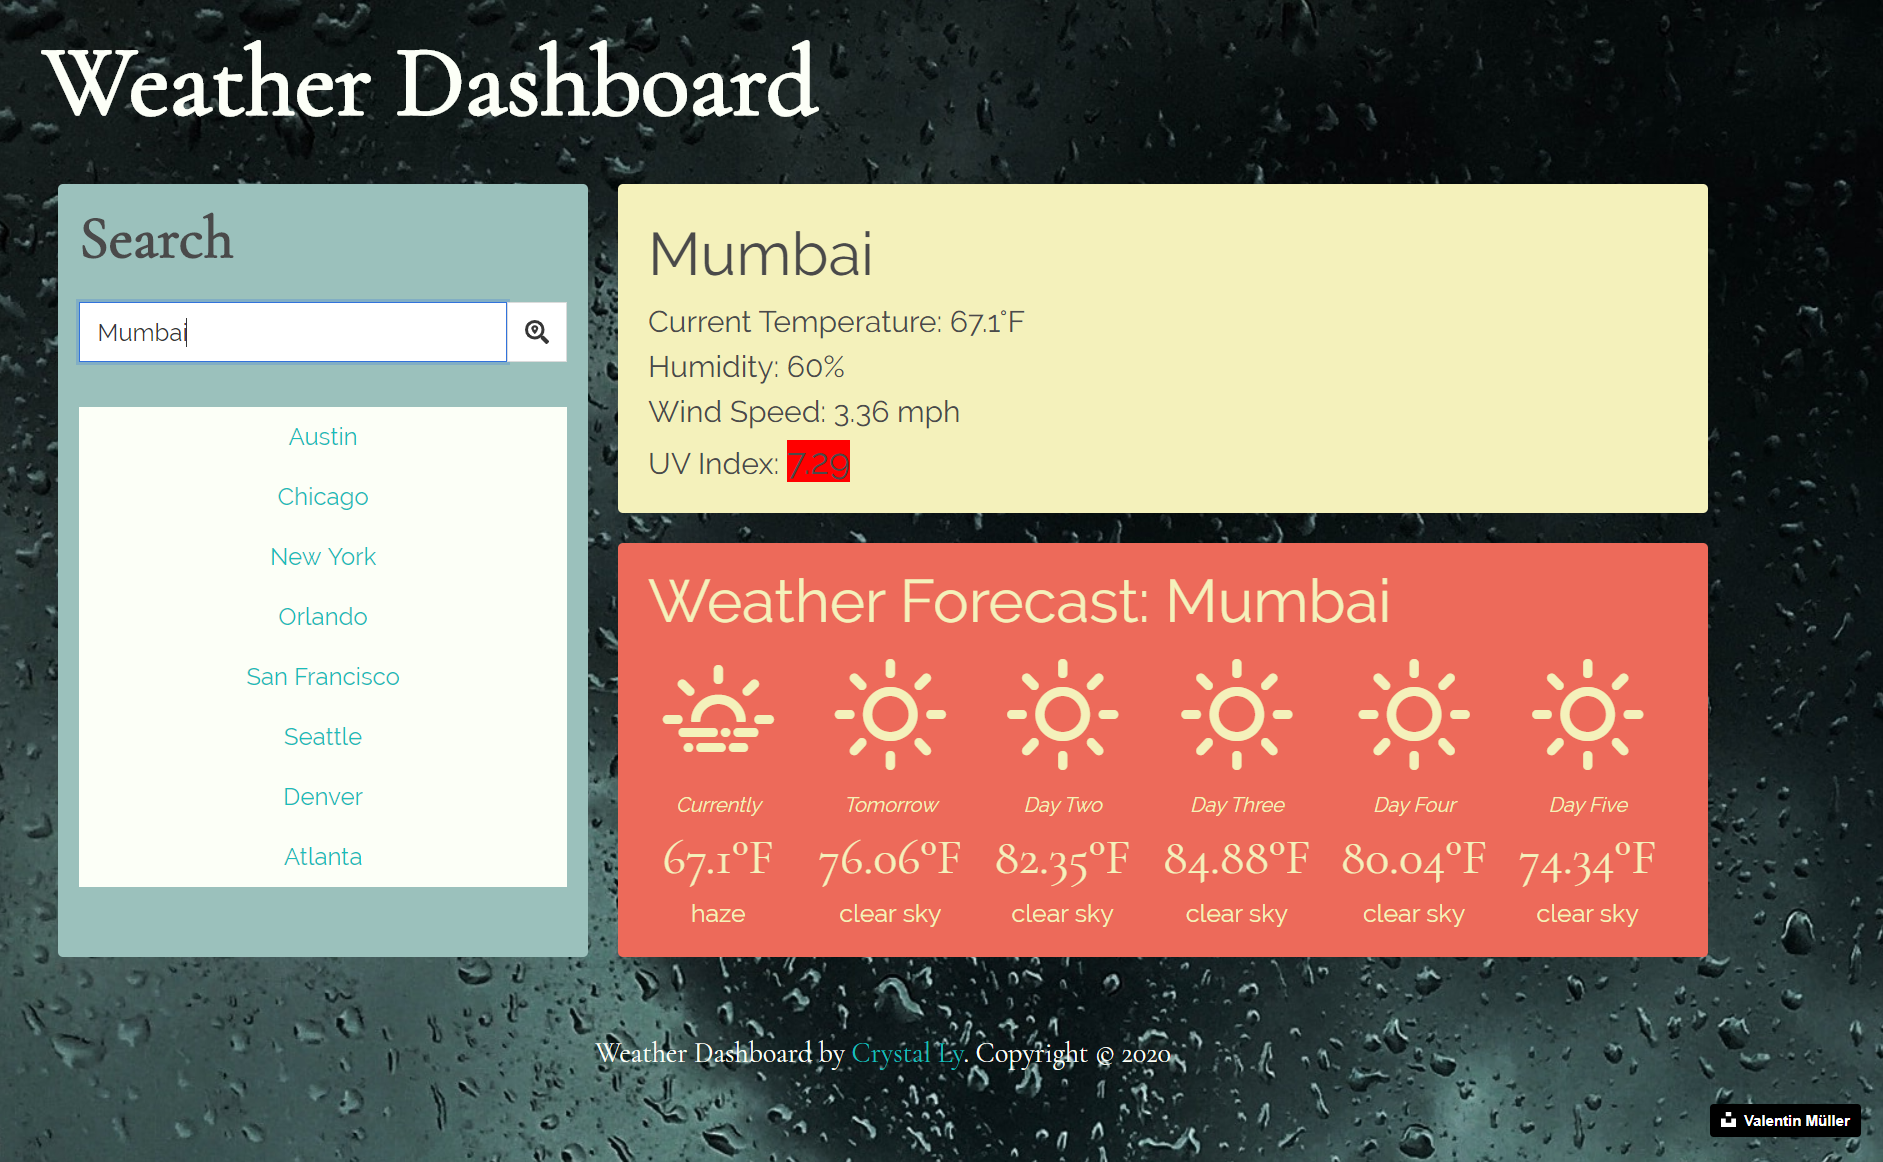
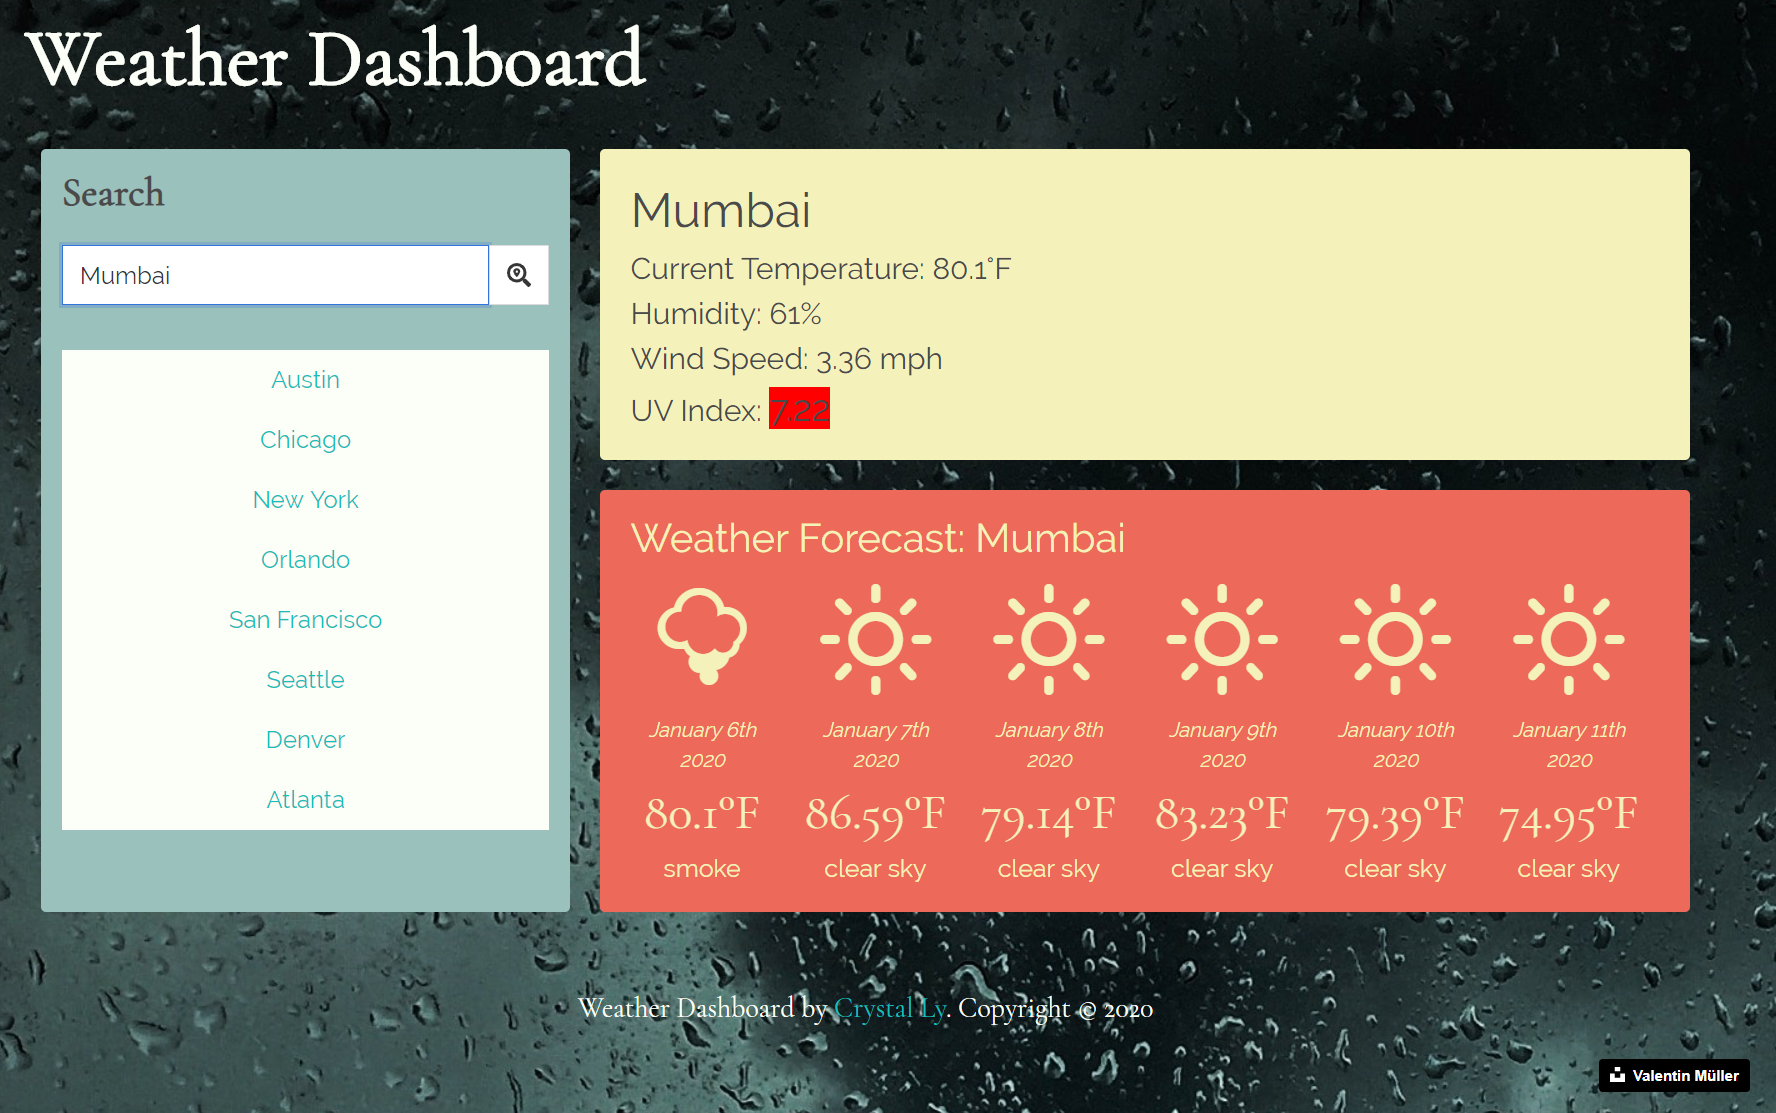
Added geolocation; just have to figure out how to fetch weather info based on location instead of city.

diff --git a/assets/scripts/script.js b/assets/scripts/script.js
@@ -14,9 +14,34 @@ $(document).ready(function () {
     var denverEl = $("#denver");
     var atlantaEl = $("#atlanta");
 
+    //prompt for user location
+    var options = {
+        enableHighAccuracy: true,
+        timeout: 5000,
+        maximumAge: 0
+    };
+
+    function success(pos) {
+        var crd = pos.coords;
+
+        console.log('Your current position is:');
+        console.log(`Latitude : ${crd.latitude}`);
+        console.log(`Longitude: ${crd.longitude}`);
+        console.log(`More or less ${crd.accuracy} meters.`);
+        queryLocationWeather();
+    }
+
+    function error(err) {
+        console.warn(`ERROR(${err.code}): ${err.message}`);
+    }
+
+    navigator.geolocation.getCurrentPosition(success, error, options);
+
+
     //this will populate the date in the weather div.
     var momentDates = moment().format("MMMM Do YYYY")
     $("#currentDate").append(momentDates);
+    $("#dateBox").append(momentDates);
 
     for (i = 1; i < 6; i++) {
         var addDay = moment().add(i, 'days');
@@ -85,24 +110,66 @@ $(document).ready(function () {
         });
     }
 
-    /* just an attempt to try to add photos if there is time
-    
-    function queryImage(cityName){
-    $.ajax({
-        url: "https://api.openweathermap.org/data/2.5/weather?q=" + cityName + "&units=imperial&appid=" + weatherKey,
-        method: "GET"
-    }).then(function (response) {
-        //Log the resulting object
-        console.log(response);
-    }
+    //runs function geolocatedWeather if location is provided.
+    if (success === true) {
+        function queryLocationWeather() {
+            $.ajax({
+                url: "https://api.openweathermap.org/data/2.5/weather?lat=" + crd.latitude + "&lon=" + crd.longitude + "&units=imperial&appid=" + weatherKey,
+                method: "GET"
+            }).then(function (response) {
+                //Log the resulting object
+                console.log(response);
 
-*/
+                var cityEl = response.name;
+                $("#cityStats").html(cityEl);
+                $("#cityForecast").html("Weather Forecast: " + cityEl);
 
-    //runs the function queryImage; not working
-    //function queryImage("Austin");
+                //This is for current weather!
+                var currentTempEl = response.main.temp;
+                $("#temperatureResponse").html("Current Temperature: " + currentTempEl + "&deg;F");
+                $("#currentTemp").html(currentTempEl + "&deg;F");
 
-    //runs the function queryCurrentWeather
-    queryCurrentWeather("Austin");
+                //stats for box above weather icons
+                $("#humidityResponse").html("Humidity: " + response.main.humidity + "&#37;"); //humidity
+                $("#windSpeedResponse").html("Wind Speed: " + response.wind.speed + " mph"); //wind speed
+
+                //current weather conditions
+                var currentConditionEl = response.weather[0].description; //this is in the icon box
+                $("#currentCondition").text(currentConditionEl);
+                //current weather icon
+                var iconCode = response.weather[0].id;
+                var flowersIcon = "wi wi-owm-" + iconCode;
+                $("#currentIcon").attr('class', flowersIcon);
+
+                //for UV index, you must pull lat and lon from response above and do another ajax function
+                $.ajax({
+                    url: "https://api.openweathermap.org/data/2.5/uvi?appid=" + weatherKey + "&lat=" + response.coord.lat + "&lon=" + response.coord.lon,
+                    method: "GET"
+                }).then(function (responseUV) {
+                    console.log(responseUV);
+                    $("#wikiUVLink").html(responseUV.value);
+                    //adds a link to wikipedia's page on UV ranges and their color codes
+                    $("#wikiUVLink").attr("href", "https://en.wikipedia.org/wiki/Ultraviolet_index#Index_usage");
+                    $("#wikiUVLink").attr("target", "_blank");
+
+                    if (responseUV.value <= 2) {
+                        $("#wikiUVLink").css("background-color", "green");
+                    } else if ((2 < responseUV.value) && (responseUV.value <= 5)) {
+                        $("#wikiUVLink").css("background-color", "yellow");
+                    } else if ((5 < responseUV.value) && (responseUV.value <= 7)) {
+                        $("#wikiUVLink").css("background-color", "orange");
+                    } else if ((7 < responseUV.value) && (responseUV.value <= 10)) {
+                        $("#wikiUVLink").css("background-color", "red");
+                    } else {
+                        $("#wikiUVLink").css("background-color", "purple");
+                    }
+                });
+            });
+        }
+    } else {
+        //runs the function queryCurrentWeather if geolocation is not provided.
+        queryCurrentWeather("Austin");
+    };
 
     function forecast(cityName) {
         $.ajax({
@@ -163,6 +230,8 @@ $(document).ready(function () {
         queryCurrentWeather(usCity[0].value);
         //runs forecast function with the newly assigned queryWeather
         forecast(usCity[0].value);
+        //adds random image from Unsplash
+        $("#randoImg").attr("src", "https://source.unsplash.com/featured/?" + usCity.val() + ",city");
     }
 
     searchButton.click(function () {
@@ -176,35 +245,43 @@ $(document).ready(function () {
     austinEl.click(function () {
         queryCurrentWeather("Austin");
         forecast("Austin");
+        $("#randoImg").attr("src", "https://source.unsplash.com/featured/?austin,city/");
     });
 
     chicagoEl.click(function () {
         queryCurrentWeather("Chicago");
         forecast("Chicago");
+        $("#randoImg").attr("src", "https://source.unsplash.com/featured/?chicago,city/");
     });
     newYorkEl.click(function () {
         queryCurrentWeather("New+York");
         forecast("New+York");
+        $("#randoImg").attr("src", "https://source.unsplash.com/featured/?new+york,city/");
     });
     orlandoEl.click(function () {
         queryCurrentWeather("Orlando");
         forecast("Orlando");
+        $("#randoImg").attr("src", "https://source.unsplash.com/featured/?orlando,city/");
     });
     sanFranciscoEl.click(function () {
         queryCurrentWeather("San+Francisco");
         forecast("San+Francisco");
+        $("#randoImg").attr("src", "https://source.unsplash.com/featured/?san+francisco,city/");
     });
     seattleEl.click(function () {
         queryCurrentWeather("Seattle");
         forecast("Seattle");
+        $("#randoImg").attr("src", "https://source.unsplash.com/featured/?seattle,city/");
     });
     denverEl.click(function () {
         queryCurrentWeather("Denver");
         forecast("Denver");
+        $("#randoImg").attr("src", "https://source.unsplash.com/featured/?denver,city/");
     });
     atlantaEl.click(function () {
         queryCurrentWeather("Atlanta");
         forecast("Atlanta");
+        $("#randoImg").attr("src", "https://source.unsplash.com/featured/?atlanta,city/");
     });
 
 });

diff --git a/index.html b/index.html
@@ -63,10 +63,12 @@
                 <div class="tile is-parent is-vertical">
                     <article class="tile is-child notification" id="statBox">
                         <h4 id="cityStats"></h4>
+                        <p id="dateBox"></p>
                         <p id="temperatureResponse"></p>
                         <p id="humidityResponse"></p>
                         <p id="windSpeedResponse"></p>
                         <p id="uvIndexResponse">UV Index: <a id="wikiUVLink"></a></p>
+                        <img src="https://source.unsplash.com/featured/?Austin,city/" alt="random image" id="randoImg">
                     </article>
 
                     <article class="tile is-child notification" id="weatherBox">

diff --git a/assets/style.css b/assets/style.css
@@ -24,17 +24,16 @@ p {
     font-size: 24px;
 }
 
+#dateBox {
+    font-weight: bolder;
+}
+
 i {
     font-size: 5rem;
 }
 
 .image {
     padding-top: 0% !important;
-    text-align: center;
-}
-
-h6 {
-    font-style: italic;
     text-align: center;
 }
 
@@ -107,6 +106,11 @@ h6 {
     font-size: 3rem;
 }
 
+#randoImg {
+    width: auto;
+    height: 300px;
+}
+
 #weatherBox {
     background-color: #ED6A5A;
     color: #F4F1BB;
@@ -122,6 +126,8 @@ h6 {
 h6 {
     font-family: 'Raleway', sans-serif;
     margin-top: 20px;
+    font-style: italic;
+    text-align: center;
 }
 
 .weatherTemp {
